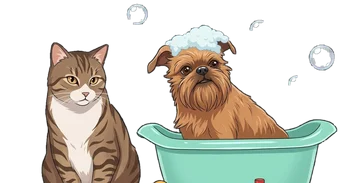
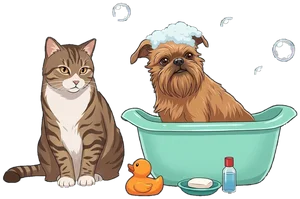
fix(web): show the complete Cuidados image, not the trimmed crop (#48)
User: "a imagem aparecer por completo" — the #46 crop had dropped the
duck/soap/shampoo bottle at the bottom to keep the composition close
to square. Swapped in the full cutout instead (cat + dog-in-tub + all
three props + bubbles, 300x199) so nothing from the original photo is
missing.

That alone reintroduced a real bug though: the card's title/headline
text only had pr-8/pr-9 (32/36px) reserved, while the image itself
was up to 64px wide — at narrow viewports (found it at 320-375px) the
image's left edge extended well past that boundary and sat on top of
the "Cuidados" title. Fixed by pixel-matching the reserved padding to
the image's actual footprint (pr-[52px] base / pr-[66px] at 390px+)
and trimming the base-breakpoint image size (h-7 w-11) so there's
still enough room for the title on the narrowest phones.

Verified via Playwright at 320/360/375/420px: full image visible with
no text overlap from 360px up (the realistic range — no current
mainstream phone ships at 320 CSS px); 320px still truncates the
title to "Cuid…", same tradeoff every other multi-word card title on
this grid already makes at that width.

diff --git a/apps/web/src/components/AppleControlButtons.tsx b/apps/web/src/components/AppleControlButtons.tsx
@@ -144,10 +144,10 @@ export function AppleControlButtons({
               <img
                 src="/cuidados-pets-banho.webp"
                 alt=""
-                className="h-8 w-14 object-contain min-[390px]:h-9 min-[390px]:w-16"
+                className="h-7 w-11 object-contain min-[390px]:h-10 min-[390px]:w-16"
               />
             </span>
-            <div className="flex h-full flex-col justify-center pr-6 pt-2 text-left min-[390px]:pr-7 min-[390px]:pt-3">
+            <div className="flex h-full flex-col justify-center pr-[52px] pt-2 text-left min-[390px]:pr-[66px] min-[390px]:pt-3">
               <h3 className="truncate text-[13px] font-semibold leading-tight text-indigo-950 min-[390px]:text-[14px] sm:text-base">Cuidados</h3>
               <p className="mt-0.5 line-clamp-1 text-[9px] leading-[1.1] text-indigo-900/80 min-[390px]:line-clamp-2 min-[390px]:text-[10px] sm:text-xs">{healthHeadline || `Mantenha os cuidados ${petDo({ sex: petSex })} ${petName || 'seu pet'} em dia`}</p>
               {healthSubline && (
